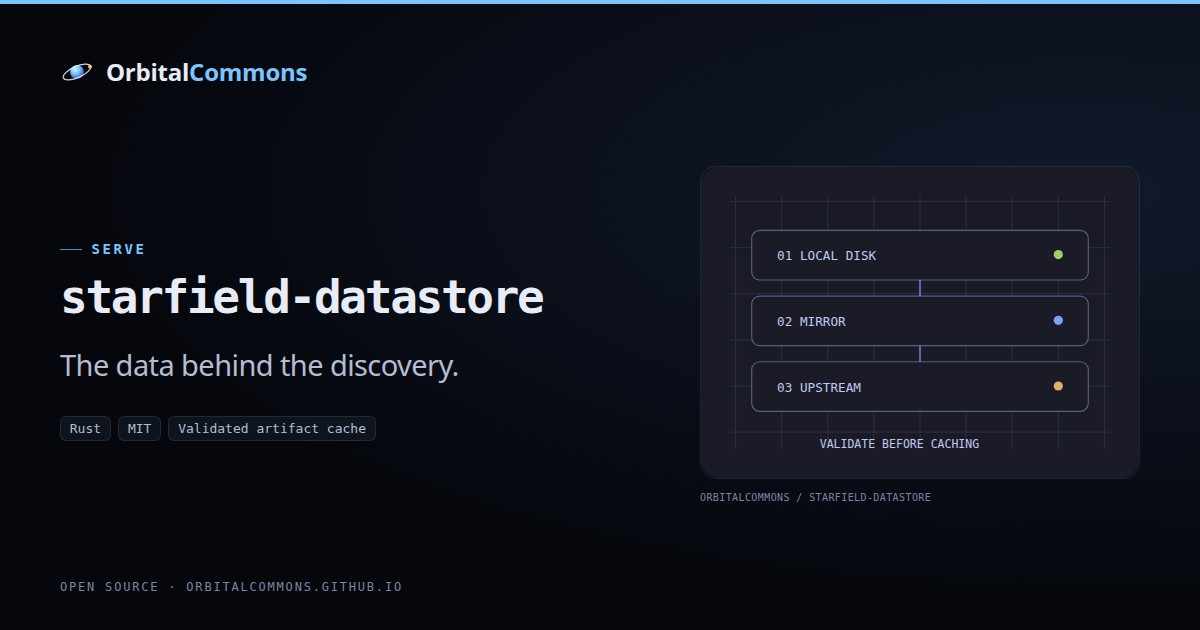
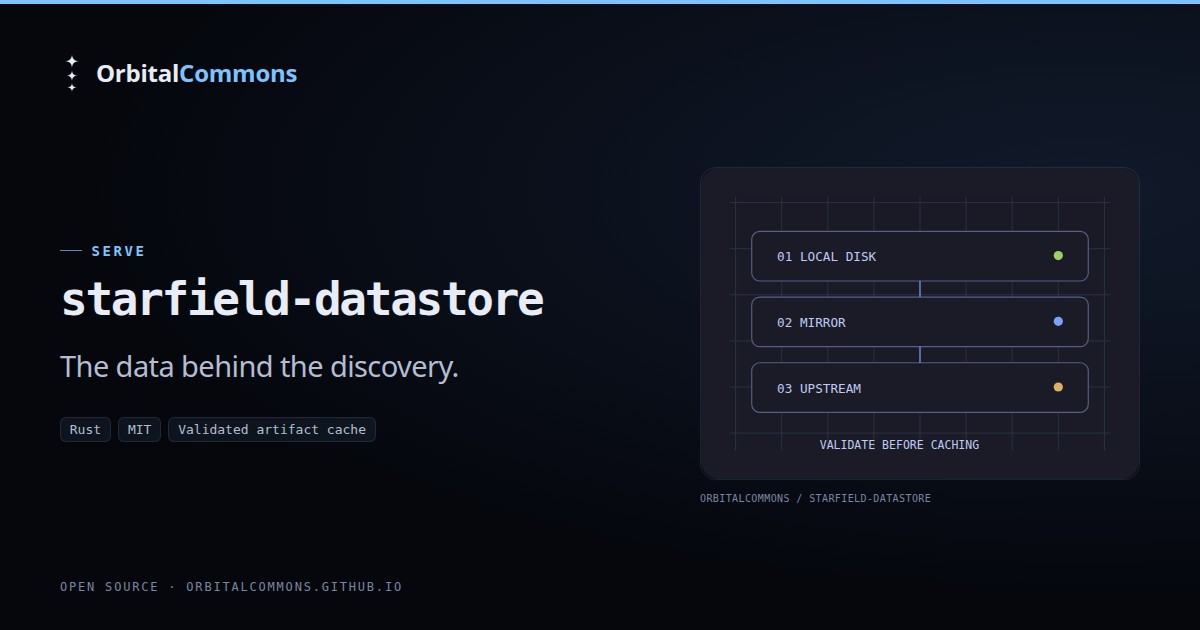
Refine the GitHub triple-star identity across site and social assets

diff --git a/style.css b/style.css
@@ -59,7 +59,7 @@ section { position: relative; }
 .brand { display: inline-flex; align-items: center; gap: .6rem; color: var(--ink); font-weight: 650;
   letter-spacing: -.01em; font-size: 1.02rem; }
 .brand:hover { text-decoration: none; }
-.brand .mark { width: 26px; height: 26px; }
+.brand .mark { width: 18px; height: 32px; }
 .brand b { font-weight: 650; color: var(--accent); }
 .site-nav nav { margin-left: auto; display: flex; gap: 1.4rem; font-size: .9rem; }
 .site-nav nav a { color: var(--ink-2); }

diff --git a/tools/og.html b/tools/og.html
@@ -12,7 +12,7 @@
   .hero-inner { padding: 0 80px; }
   .hero h1 { font-size: 64px; max-width: 700px; }
   .brand { font-size: 26px; margin-bottom: 36px; }
-  .brand .mark { width: 40px; height: 40px; }
+  .brand .mark { width: 28px; height: 48px; }
   .url { font: 500 18px var(--mono); color: var(--ink-3); margin-top: 28px; }
 </style>
 </head>

diff --git a/assets/README.md b/assets/README.md
@@ -63,3 +63,23 @@ Uranus 9″ and Neptune 29″.
 
 `og.jpg` is a 1200×630 capture of `tools/og.html`; `noise.png` is a 96×96 random dither tile;
 `mark.svg`, `favicon.svg` and `apple-touch-icon.png` are the logo.
+
+## Identity
+
+`mark.svg` redraws the three descending four-point stars from the
+[OrbitalCommons GitHub organization avatar](https://github.com/OrbitalCommons).
+The curves and spacing are refined for a narrow vertical mark beside the
+wordmark. `favicon.svg` uses slightly broader stars for small sizes on an opaque
+dark background. These are editable vector paths, with no font dependency.
+
+With the local preview server running, regenerate the raster brand assets:
+
+```sh
+node tools/build_brand_assets.cjs
+node tools/build_project_cards.cjs
+```
+
+The first command renders the 180-pixel Apple touch icon and the 1200 × 630
+homepage card; the second refreshes the six project cards. Set `CHROME_PATH` for
+a system Chrome or `SITE_URL` for a different local preview address. The
+homepage card fixes `Math.random` at 0.35 and requests reduced motion.
